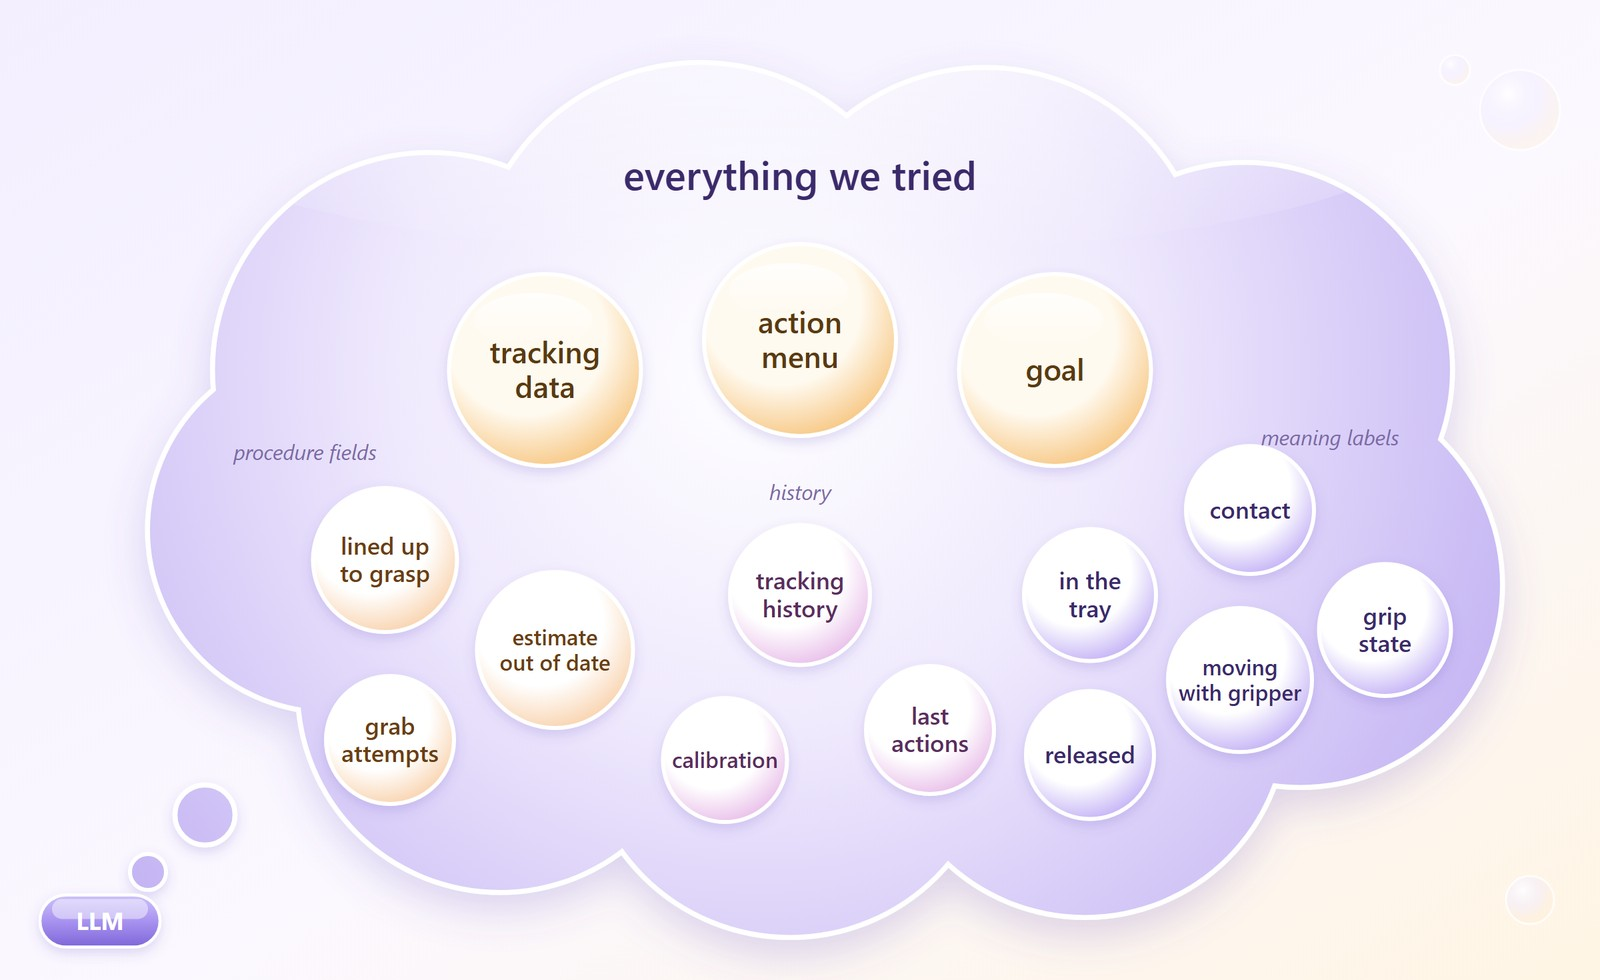
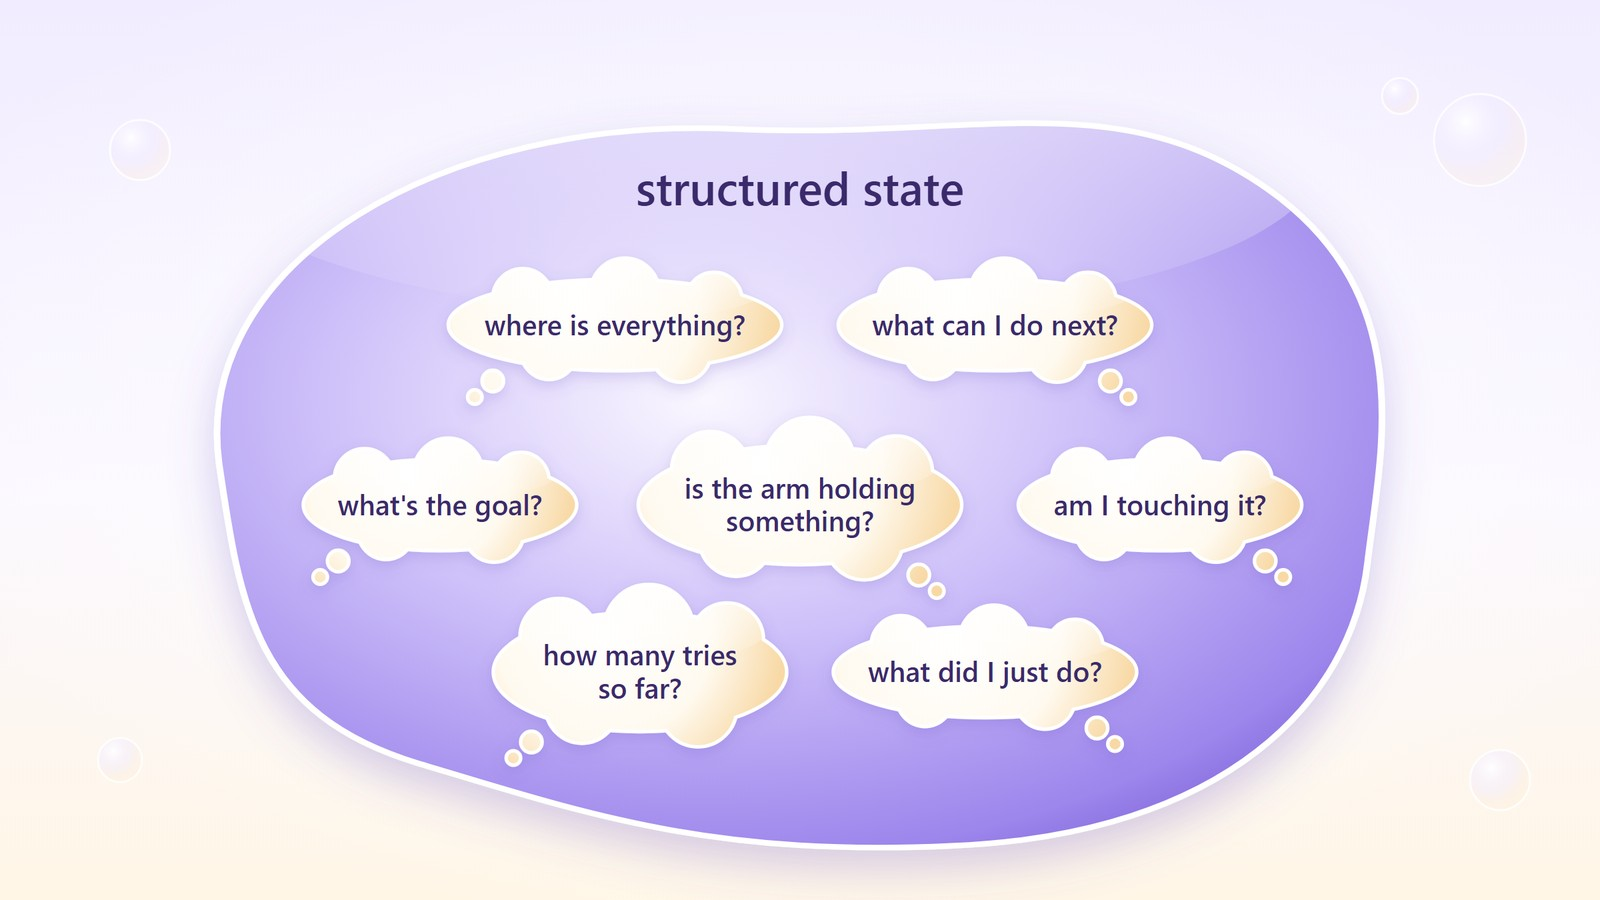
Redraw the structured-state thought-bubble figure and update its caption

diff --git a/blog/2026/training-chatbots-to-use-robots/index.html b/blog/2026/training-chatbots-to-use-robots/index.html
@@ -103,8 +103,8 @@
 
           <p>So what even is this structured state? What does it consist of? Everything? It's supposed to describe the entire visuospatial scene in compact text. In reading a structured state of a scene at some timestep, a model should have all the information it needs to take some action to produce a desired result in the structured state of the NEXT timestep.</p>
           <p>Some tasks are expressed in file formats that are sufficiently compact and legible as text that the raw data itself can be <a href="https://x.com/kvdozer/status/2101745456091136459?s=20" target="_blank" rel="noopener noreferrer">used as the bulk of the structured state</a>. This becomes less true as the task widens in context; raw ingestion of every pixel value of <a href="https://x.com/shreypandya/status/2100606445758898287?s=20" target="_blank" rel="noopener noreferrer">Mario Kart to prompt a controller input</a> is not a helpful approach for today’s LLMs, and thus requires a simplified structured state to be easily navigable.</p>
-          <p><img src="/assets/statebench/state_before_trimming.jpg" alt="A glossy purple thought cloud labeled everything we tried, holding bubbles for each field: tracking data, action menu and goal in gold; meaning labels (contact, grip state, moving with gripper, in the tray, released); procedure fields (lined up to grasp, estimate out of date, grab attempts); and history (tracking history, last actions, calibration). Small bubbles trail down to a pill labeled LLM." style="display: block; width: 100%; max-width: 860px; margin: 0 auto;"></p>
-          <div class="caption">Every field I tried putting in the structured state</div>
+          <p><img src="/assets/statebench/state_before_trimming.jpg" alt="A glossy purple blob titled structured state holding seven cream thought bubbles: where is everything?, what can I do next?, what&#x27;s the goal?, is the arm holding something?, am I touching it?, how many tries so far?, and what did I just do?" style="display: block; width: 100%; max-width: 860px; margin: 0 auto;"></p>
+          <div class="caption">Claude generated an SVG for me to visualize the structured state we are about to strengthen. I wonder how it got so good at generating SVGs?</div>
 
           <h2>The experiment</h2>
 
